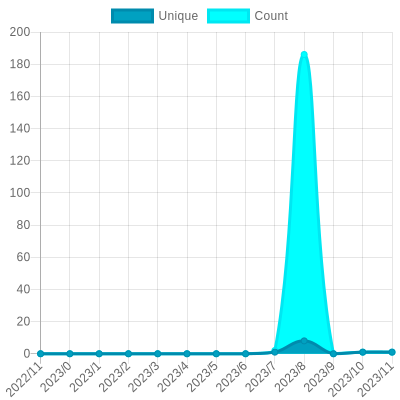
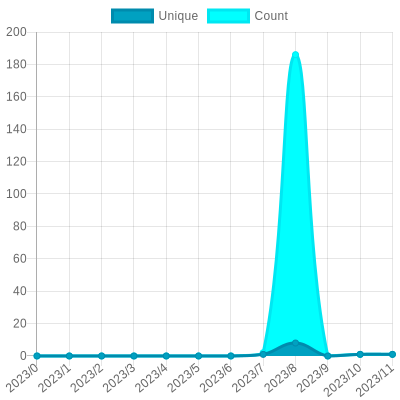
Update views

Changed region(s): [[0.0, 0.09, 0.99, 1.0], [0.0, 0.06, 0.09, 0.09]]

diff --git a/README.md b/README.md
@@ -26,7 +26,7 @@ The project created and maintained by [gayanvoice](https://github.com/gayanvoice
 			</a>
 		</td>
 		<td>
-			2022/12/29 12:37 AM UTC
+			2022/12/30 12:37 AM UTC
 		</td>
 		<td>
 			14
@@ -37,7 +37,7 @@ The project created and maintained by [gayanvoice](https://github.com/gayanvoice
 	</tr>
 </table>
 
-<small><i>Last updated on 2022/12/31 6:07 PM UTC</i></small>
+<small><i>Last updated on 2023/1/1 12:41 AM UTC</i></small>
 
 ## ✂Copy and 📋 Paste
 ### Total Views Badge

diff --git a/readme/465495654/year.md b/readme/465495654/year.md
@@ -150,21 +150,10 @@
 			<code>0</code>
 		</td>
 	</tr>
-	<tr>
-		<td>
-			<code>2021/12/1</code>
-		</td>
-		<td>
-			<code>0</code>
-		</td>
-		<td>
-			<code>0</code>
-		</td>
-	</tr>
 </table>
 
 </details>
-<small><i>Last updated on 2022/12/31 6:07 PM UTC</i></small>
+<small><i>Last updated on 2023/1/1 12:41 AM UTC</i></small>
 
 ## ✂Copy and 📋 Paste
 ### SVG Badge
